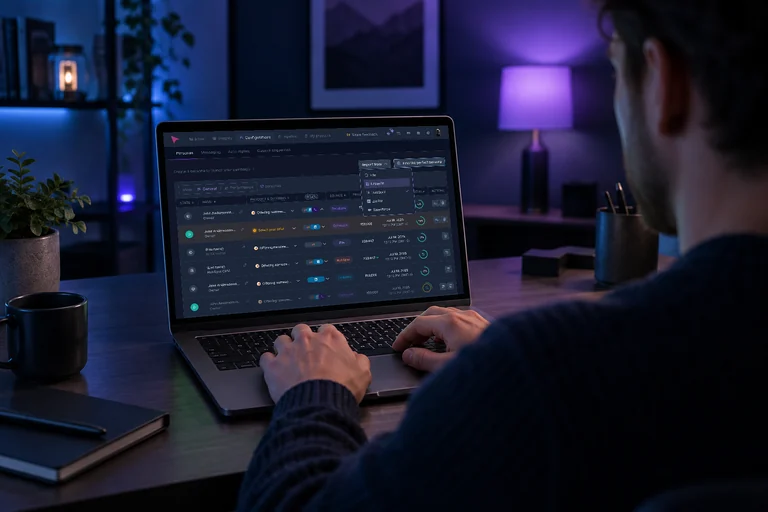
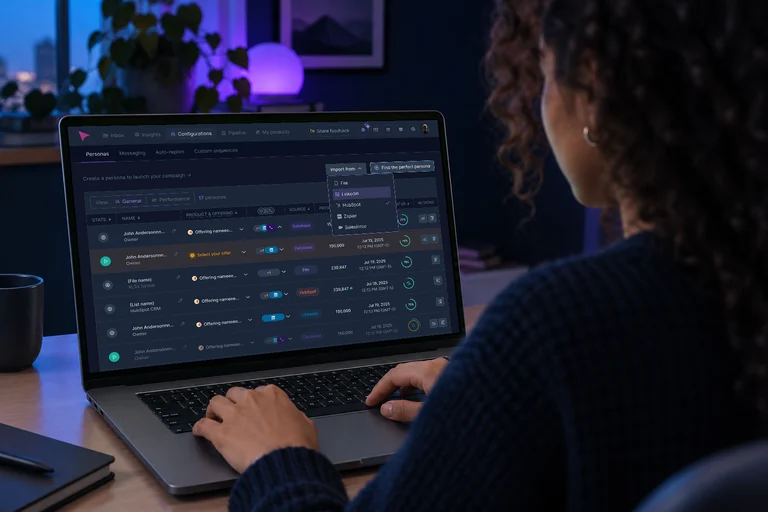
AnyBiz behaviour: a woman with curly hair, a bigger laptop, the player inside the photo, readable flat labels

diff --git a/AnyBiz.html b/AnyBiz.html
@@ -293,6 +293,11 @@ h1{font-size:clamp(34px,5.6vw,80px);line-height:1.03;letter-spacing:-.045em}
 .replay{display:flex;flex-direction:column;gap:12px;cursor:pointer}
 .photo{position:relative;overflow:hidden}
 .photo img{display:block;width:100%}
+/* the labels of the marks: flat, in the page's type, so they read (her request), placed where the mark is on the screen */
+.labels{position:absolute;inset:0;pointer-events:none;z-index:3}
+.mkl{position:absolute;transform:translate(-50%,14px);display:inline-flex;align-items:center;gap:7px;white-space:nowrap;font:500 14px/1 var(--sans);letter-spacing:-.005em;color:var(--ink);background:#fff;border-radius:999px;padding:8px 13px 8px 10px;box-shadow:0 8px 20px -8px rgba(2,6,23,.6);animation:mkhes 4s ease forwards}
+.mkl i{width:8px;height:8px;border-radius:50%;background:var(--c)}
+.replay.paused .mkl{animation-play-state:paused}
 /* a 1600 x 1000 layer, the size of the screen image, mapped onto the laptop screen with matrix3d */
 .lapscr{position:absolute;left:0;top:0;width:1600px;height:1000px;transform-origin:0 0;pointer-events:none}
 .cursor{position:absolute;left:50%;top:70%;width:80px;height:80px;z-index:3;transition-property:left,top;transition-timing-function:cubic-bezier(.45,.05,.3,1);filter:drop-shadow(0 4px 6px rgba(0,0,0,.5))}
@@ -301,11 +306,10 @@ h1{font-size:clamp(34px,5.6vw,80px);line-height:1.03;letter-spacing:-.045em}
 .mk.hes{border:6px dashed var(--amber);animation:mkhes 4s ease forwards}
 .mk.rage{border:8px solid var(--rose);animation:mkrage .9s ease-out 3 forwards}
 .mk.dead{border:6px solid var(--sky);background:rgba(56,189,248,.15)}
-.mk .t{position:absolute;left:50%;top:100%;transform:translate(-50%,16px);white-space:nowrap;font:600 34px/1 var(--ui);color:#fff;background:#0F172A;border-radius:12px;padding:12px 18px}
 @keyframes mkhes{0%{opacity:0;transform:scale(.5)}15%{opacity:1;transform:scale(1)}85%{opacity:1}100%{opacity:0}}
 @keyframes mkrage{0%{opacity:1;transform:scale(.3)}100%{opacity:0;transform:scale(1.3)}}
 @keyframes mkfade{0%{opacity:0}10%,85%{opacity:1}100%{opacity:0}}
-.player{display:flex;align-items:center;gap:14px;background:var(--panel);color:var(--a-ink);border-radius:10px;padding:12px 16px;font:500 13px/1 var(--ui)}
+.player{position:absolute;left:clamp(10px,2vw,20px);right:clamp(10px,2vw,20px);bottom:clamp(10px,2vw,20px);z-index:4;display:flex;align-items:center;gap:14px;background:rgba(15,23,42,.82);backdrop-filter:blur(10px);-webkit-backdrop-filter:blur(10px);border:1px solid rgba(148,163,184,.18);color:var(--a-ink);border-radius:10px;padding:12px 16px;font:500 13px/1 var(--ui)}
 .player svg{width:16px;height:16px;flex:none}
 .track{position:relative;flex:1;height:6px;border-radius:3px;background:var(--line)}
 .track .fill{position:absolute;left:0;top:0;bottom:0;width:0;border-radius:3px;background:var(--violet-l)}
@@ -618,11 +622,12 @@ footer .wrap{display:flex;justify-content:space-between;gap:16px;flex-wrap:wrap}
       </div>
       <figure class="c5-12 rv" style="--d:.1s">
         <div class="replay" id="replay" tabindex="0" aria-describedby="replay-how">
-          <div class="photo" role="img" aria-label="A person at a laptop in a dusk room lit violet, the Personas screen of AnyBiz on the laptop; over it a session replay: the cursor hesitates over Select your offer, clicks a status ring three times in frustration, clicks an item that does nothing, and leaves the page.">
+          <div class="photo" role="img" aria-label="A woman with curly hair at a laptop in a dusk room lit violet, the Personas screen of AnyBiz on the laptop; over it a session replay: the cursor hesitates over Select your offer, clicks a status ring three times in frustration, clicks an item that does nothing, and leaves the page.">
             <img src="assets/work/anybiz/replay-laptop.webp" srcset="assets/work/anybiz/replay-laptop-768.webp 768w, assets/work/anybiz/replay-laptop.webp 1536w" sizes="(max-width:720px) 92vw, 62vw" alt="" width="1536" height="1024" loading="lazy">
-            <div class="lapscr" id="lapscr" data-quad="21.22,25.88 58.33,24.51 60.42,57.42 22.92,62.3" aria-hidden="true"><span class="cursor" id="cur"><svg><use href="#i-ptr"/></svg></span></div>
+            <div class="lapscr" id="lapscr" data-quad="8.79,24.71 56.97,23.44 59.83,64.94 11.65,72.85" aria-hidden="true"><span class="cursor" id="cur"><svg><use href="#i-ptr"/></svg></span></div>
+            <div class="labels" id="mlabels" aria-hidden="true"></div>
+            <div class="player" aria-hidden="true"><svg><use href="#i-play"/></svg><span class="time" id="rtime">00:00 / 06:40</span><span class="track"><span class="fill" id="rfill"></span><i style="left:22%;background:var(--amber)"></i><i style="left:48%;background:var(--rose)"></i><i style="left:70%;background:var(--sky)"></i><i style="left:94%;background:var(--violet-l)"></i></span></div>
           </div>
-          <div class="player" aria-hidden="true"><svg><use href="#i-play"/></svg><span class="time" id="rtime">00:00 / 06:40</span><span class="track"><span class="fill" id="rfill"></span><i style="left:22%;background:var(--amber)"></i><i style="left:48%;background:var(--rose)"></i><i style="left:70%;background:var(--sky)"></i><i style="left:94%;background:var(--violet-l)"></i></span></div>
           <span id="replay-how" class="vh">The replay plays by itself. Press Enter, or click it, to stop or start it.</span>
         </div>
       </figure>
@@ -754,6 +759,7 @@ document.querySelectorAll('.big').forEach(function(h){
     for(var i=0;i<4;i++){var x=src[i][0],y=src[i][1],u=dst[i][0],v=dst[i][1];
       A.push([x,y,1,0,0,0,-u*x,-u*y]);b.push(u);A.push([0,0,0,x,y,1,-v*x,-v*y]);b.push(v)}
     var k=solve(A,b);
+    lay._k=k;
     lay.style.transform='matrix3d('+[k[0],k[3],0,k[6],k[1],k[4],0,k[7],0,0,1,0,k[2],k[5],0,1].join(',')+')';
   }
   fit();addEventListener('resize',fit);ph.querySelector('img').addEventListener('load',fit);
@@ -770,7 +776,10 @@ document.querySelectorAll('.big').forEach(function(h){
   function fmt(s){s=Math.round(s);return ('0'+Math.floor(s/60)).slice(-2)+':'+('0'+s%60).slice(-2)}
   function mark(k,x,y){
     var p=k.split(':'),el=document.createElement('span');el.className='mk '+p[0];el.style.left=x+'%';el.style.top=y+'%';
-    if(p[1]){var t=document.createElement('span');t.className='t';t.textContent=p[1];el.appendChild(t)}
+    if(p[1]){var k2=scr._k,X=x*16,Y=y*10,d=k2[6]*X+k2[7]*Y+1,ph=scr.parentNode,lb=document.createElement('span');
+      lb.className='mkl';lb.style.left=((k2[0]*X+k2[1]*Y+k2[2])/d/ph.clientWidth*100)+'%';lb.style.top=((k2[3]*X+k2[4]*Y+k2[5])/d/ph.clientHeight*100+3)+'%';
+      lb.style.setProperty('--c',{hes:'var(--amber)',rage:'var(--rose)',dead:'var(--sky)'}[p[0]]);lb.innerHTML='<i></i>'+p[1];
+      document.getElementById('mlabels').appendChild(lb);setTimeout(function(){lb.remove()},4200)}
     scr.appendChild(el);setTimeout(function(){el.remove()},4200);
   }
   function run(){

diff --git a/tools/anybiz/replay_laptop.py b/tools/anybiz/replay_laptop.py
@@ -1,6 +1,6 @@
 """Put the Personas screen on the laptop of the session-replay photo.
 
-The photo is her Figma AI image (node 252:2, gpt-image-2.5): a person at a laptop whose screen is a flat
+The photo is her Figma AI image (node 253:2, gpt-image-2.5; it replaced 252:2, her request): a woman with curly hair at a laptop whose screen is a flat
 green. This finds the green screen, maps the Personas screen onto it in perspective, and prints the four
 corners (in % of the photo) that AnyBiz.html uses to lay the moving cursor over the same screen.
 

diff --git a/anybiz.md b/anybiz.md
@@ -101,7 +101,7 @@ Section label **Behaviour**, note **What people do, not what they say**.
 Headline: Recordings show *what people do* when nobody is asking
 Text left: Interviews tell you what people think. Session recordings show what they actually do. I watched real sessions to find the moments that need attention: where people hesitate, click something that does nothing, click again in frustration, or leave a flow half done. Each moment became a design fix, a question for the next interview, or a hypothesis to test.
 Visual right: a session replay drawn over the Personas screen (247:78364, cut to 16:10) inside a browser frame: a cursor moves along a path, a hesitation ring, a rage click ripple and a dead click appear where they happen; under it a player bar with a timeline and coloured markers, and a legend: Hesitation, Rage click, Dead click, Drop-off. Note under it: An illustration of the method, not a recorded session.
-**On a laptop** (her request, 2026-10-22: the demo on a mockup, a person at a laptop, in her colours; the legend under the text at the left; references `inspiration/39-laptop-over-shoulder.png`, `40-laptop-on-lap.png`): an AI image made with Figma AI (gpt-image-2.5, node 252:2 in her file): a person in a navy sweater at a dark laptop in a dusk room lit violet and blue, seen over the shoulder; the laptop screen was a flat green. [`tools/anybiz/replay_laptop.py`](tools/anybiz/replay_laptop.py) finds the green screen and puts the Personas screen (`personas-app.webp`) on it in perspective (`replay-laptop.webp`), and gives the screen's four corners, which the page uses to lay the moving cursor, the marks and their labels over the same screen (a CSS matrix3d). The player bar stays under the photo; the legend and the note "An illustration of the method, not a recorded session." sit under the text at the left.
+**On a laptop** (her request, 2026-10-22: the demo on a mockup, a person at a laptop, in her colours; the legend under the text at the left; references `inspiration/39-laptop-over-shoulder.png`, `40-laptop-on-lap.png`): an AI image made with Figma AI (gpt-image-2.5, node 252:2 in her file): a person in a navy sweater at a dark laptop in a dusk room lit violet and blue, seen over the shoulder; the laptop screen was a flat green. [`tools/anybiz/replay_laptop.py`](tools/anybiz/replay_laptop.py) finds the green screen and puts the Personas screen (`personas-app.webp`) on it in perspective (`replay-laptop.webp`), and gives the screen's four corners, which the page uses to lay the moving cursor, the marks and their labels over the same screen (a CSS matrix3d). **Then** (her request, 2026-10-22): a new image (node 253:2, replaced 252:2): a young woman with curly dark hair, the camera closer so the laptop is bigger (its screen about half the photo's width); the player bar sits inside the photo at its foot, on frosted navy; the labels of the marks (Hesitation, Rage click, Dead click) are drawn flat over the photo in the page's type (Inter Tight 14 px, dark on a white pill with a dot in the mark's colour), placed where the mark is on the screen, so they read. Before that: the player bar stayed under the photo; the legend and the note "An illustration of the method, not a recorded session." sit under the text at the left.
 
 **Square corners in the mockups** (her note, 2026-10-22): the Deliverability frame had rounded top corners in the night colour that showed as notches beside the browser bar; the export script fills them with the bar's colour.
 
